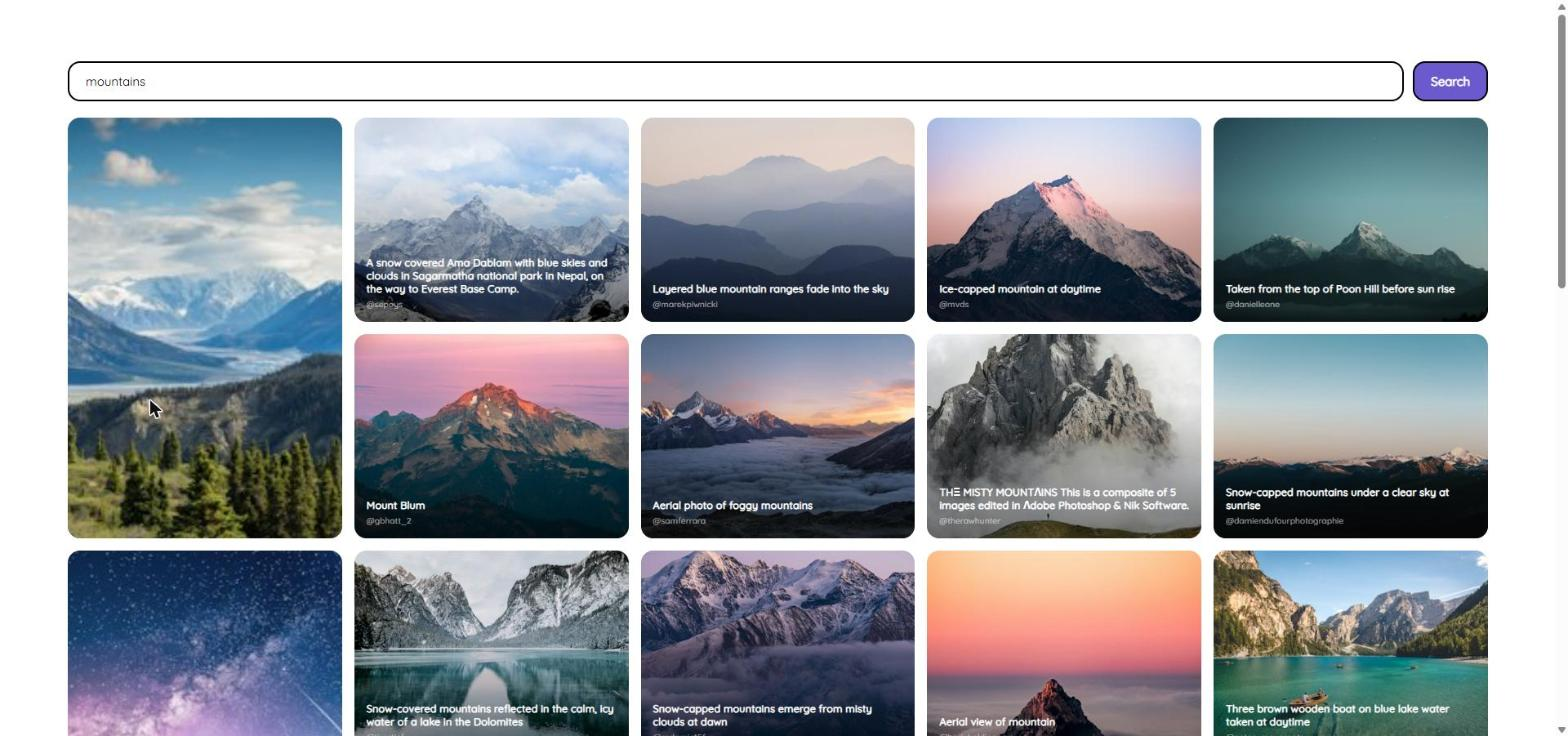
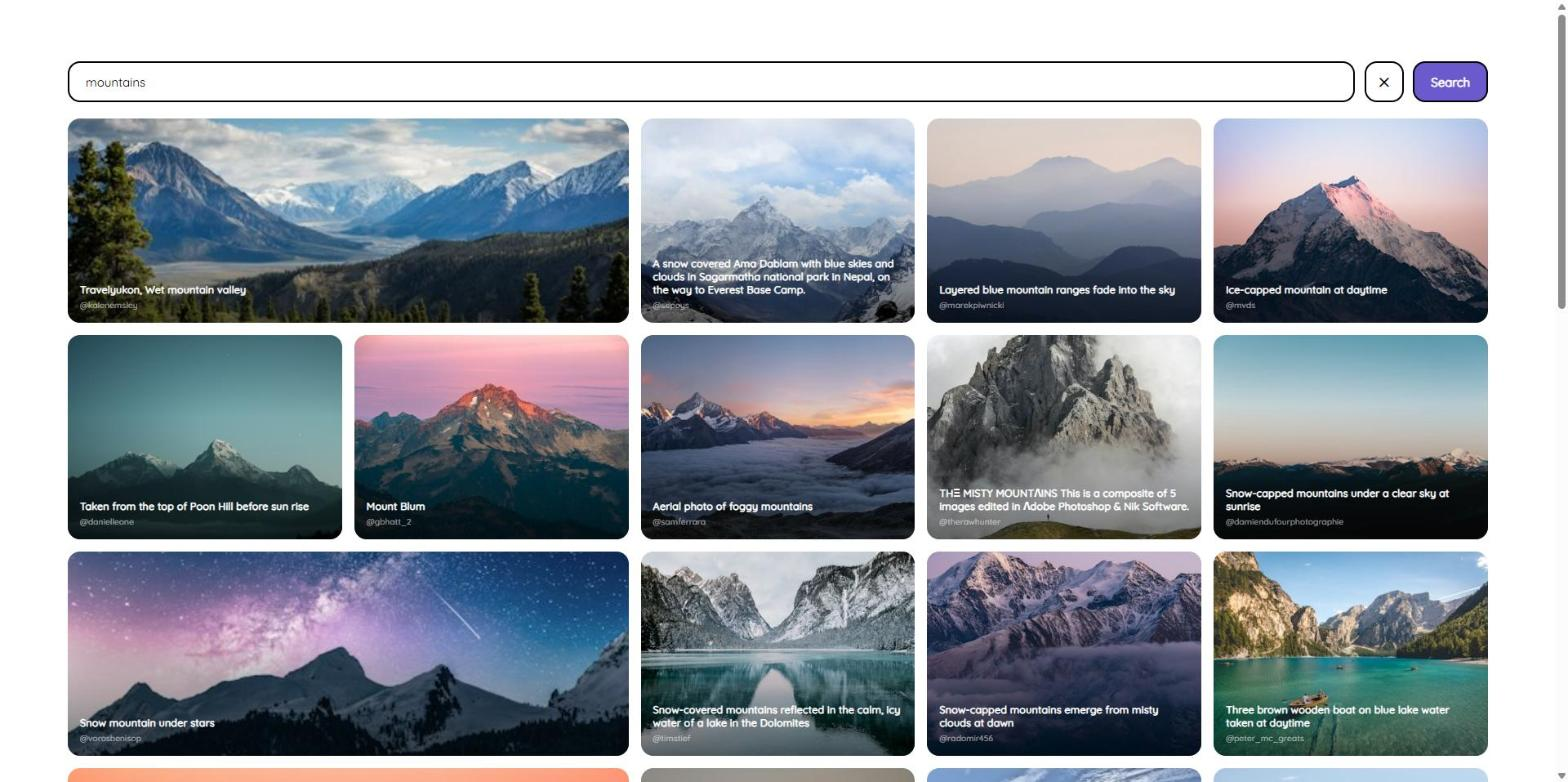
Update README: new screenshots, technologies and badges

diff --git a/README.md b/README.md
@@ -1,22 +1,38 @@
-# PHOTO-GALLERY
+# Photo Gallery
 
-> Unsplash image viewer app for FrontEnd NUWE Challenge
+> Unsplash image viewer, originally a FrontEnd challenge for NUWE (2023) and modernized in 2026.
 
-**[![CodeFactor](https://www.codefactor.io/repository/github/wavesforweirdos/photo-gallery/badge)](https://www.codefactor.io/repository/github/wavesforweirdos/photo-gallery)**
+[![CI](https://github.com/wavesforweirdos/photo-gallery/actions/workflows/ci.yml/badge.svg)](https://github.com/wavesforweirdos/photo-gallery/actions/workflows/ci.yml)
+[![CodeFactor](https://www.codefactor.io/repository/github/wavesforweirdos/photo-gallery/badge)](https://www.codefactor.io/repository/github/wavesforweirdos/photo-gallery)
 
 **Demo:** https://wavesforweirdos.github.io/photo-gallery/
 
-Gallery built with Vue 3, Vue Router and Vite that browses photos from the [Unsplash API](https://unsplash.com/developers). Click a photo to see its detail.
+![Photo Gallery: search results for "mountains"](docs/screenshot.jpg)
 
-![Photo Gallery screenshot](docs/screenshot.jpg)
+Gallery that browses photos from the [Unsplash API](https://unsplash.com/developers). Search by keyword, load more results and open any photo to see its detail.
+
+![Photo detail with description and author attribution](docs/screenshot-detail.jpg)
 
 ## Features
 
 - Search Unsplash photos by keyword, with the term kept in the URL so searches can be shared
 - "Load more" pagination (30 photos per page)
-- Grid with lightweight thumbnails and loading skeletons; cell size depends on the photo's likes
+- Mosaic grid with lightweight thumbnails and loading skeletons; the most liked photos of each batch are wider, and every row keeps the same height
 - Photo detail view with description, location and author attribution; close it with `Esc`
 - Clear messages for empty results, errors and Unsplash's rate limit (50 requests/hour in demo mode)
+
+## Technologies
+
+| | |
+|---|---|
+| **Framework** | [Vue 3](https://vuejs.org/) (Options API) |
+| **Routing** | [Vue Router 5](https://router.vuejs.org/) with hash history, so it works on static hosting |
+| **Build tool** | [Vite 8](https://vite.dev/) |
+| **Data** | [Unsplash API](https://unsplash.com/developers) via `fetch` |
+| **Styling** | Plain CSS (grid) |
+| **Testing** | [Vitest](https://vitest.dev/) and [Vue Test Utils](https://test-utils.vuejs.org/) with jsdom |
+| **Quality** | [ESLint 10](https://eslint.org/) (flat config) and [CodeFactor](https://www.codefactor.io/) |
+| **CI/CD** | GitHub Actions and GitHub Pages |
 
 ## Getting started
 
@@ -33,5 +49,5 @@ npm run dev
 | `npm run dev` | Dev server with hot reload |
 | `npm run build` | Production build into `dist/` |
 | `npm run preview` | Preview the production build |
-| `npm run lint` | Lint with [ESLint](https://eslint.org/) |
-| `npm test` | Run the [Vitest](https://vitest.dev/) test suite |
+| `npm run lint` | Lint with ESLint |
+| `npm test` | Run the Vitest test suite |
